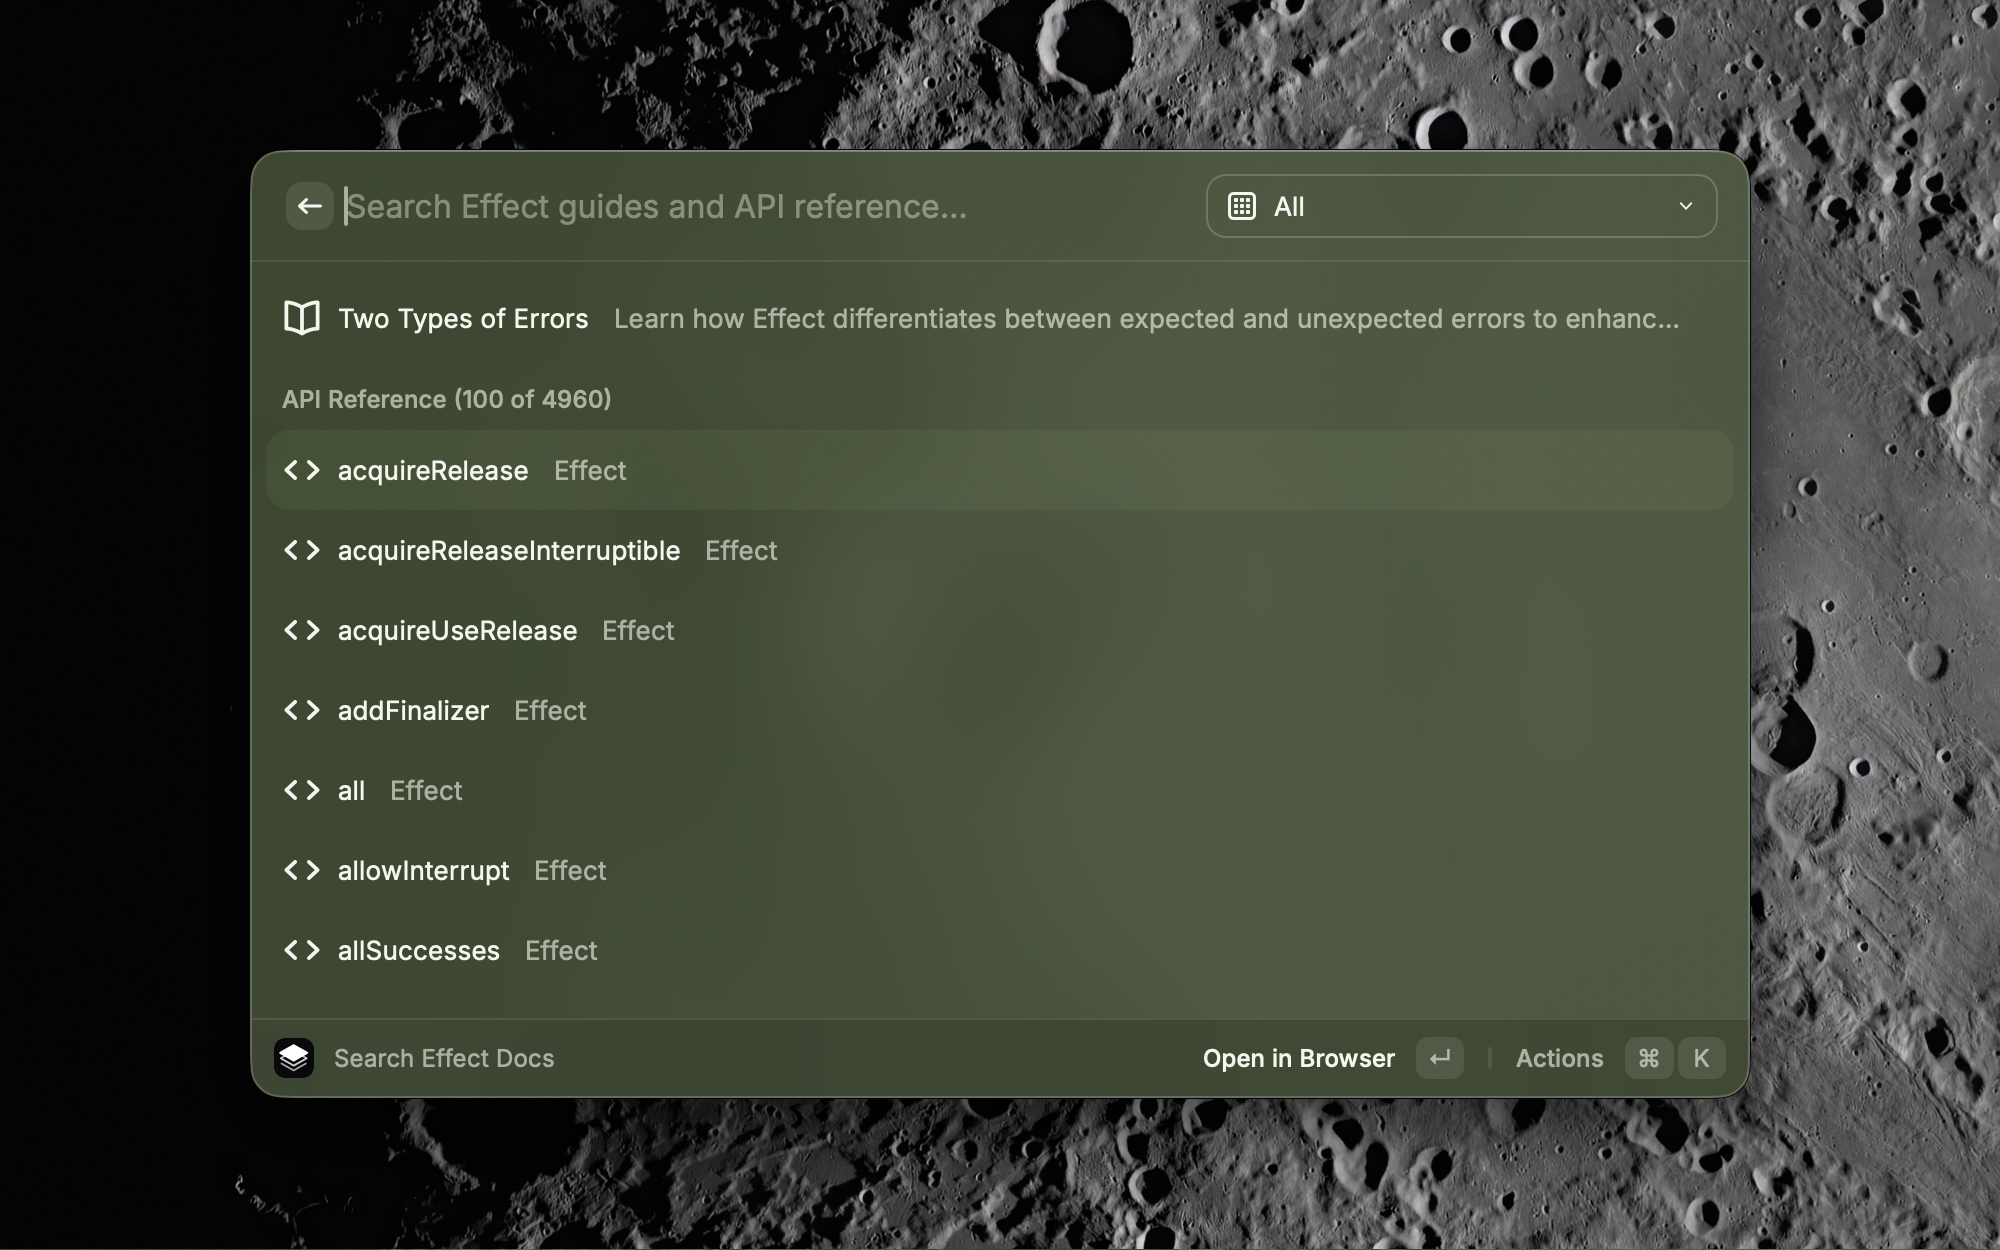
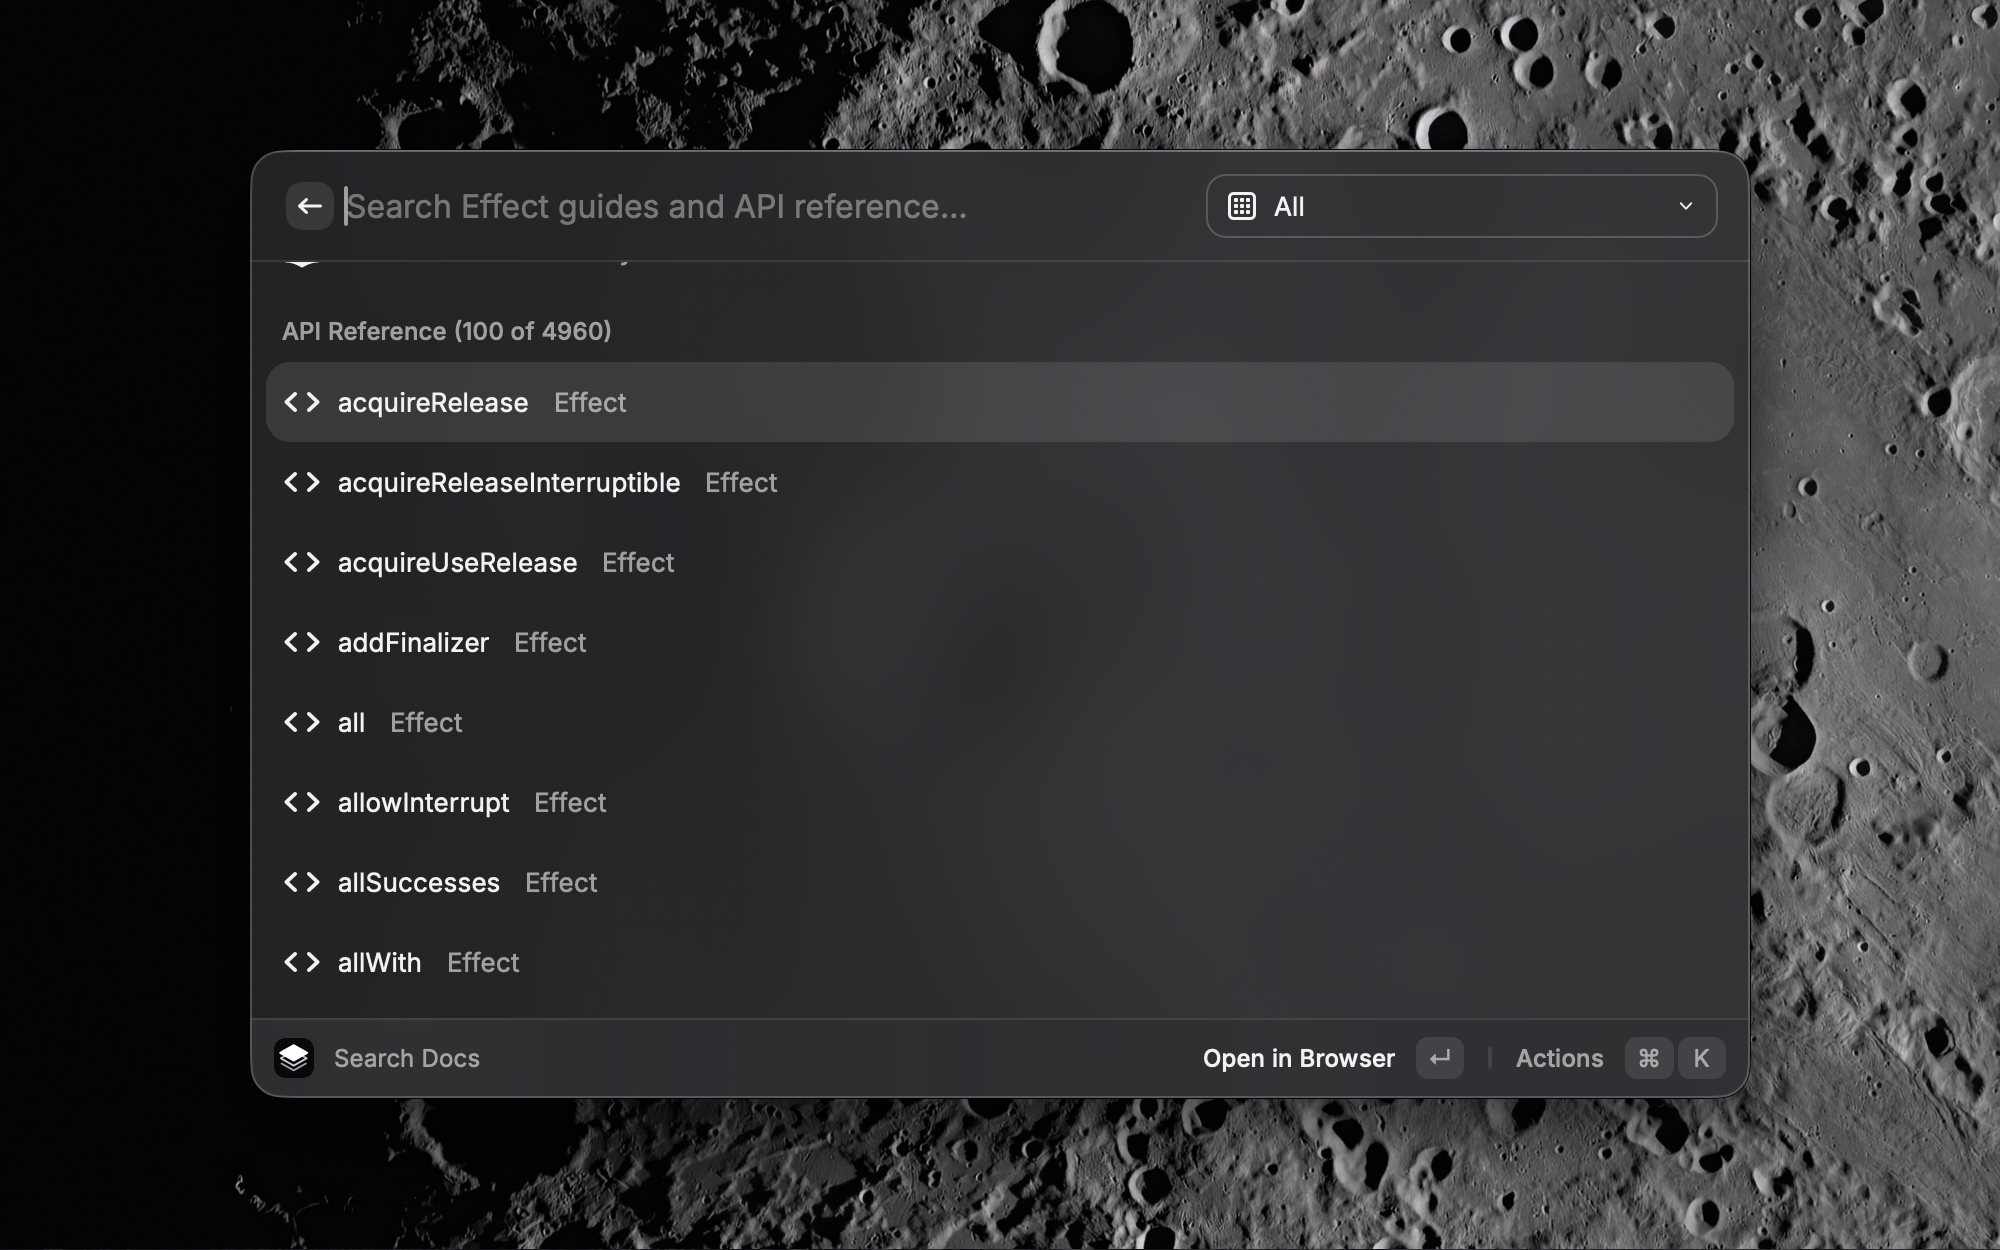
Update effect-docs extension (#28006)
* Update effect-docs extension

- Merge branch \'contributions/merge-1778991903929\'
- Pull contributions
- Update the intitial release to not use the template
- Resolved changes from Raycast
- Pull contributions
- Merge pull request #1 from rvaccone/fix/replace-llms-txt-with-docs-sidebar
- Address CodeRabbit review
- Replace removed llms.txt source with docs sidebar scrape

* Update the screenshots to reflect the new guide

* Fixed accidentally adding the wrong screenshots

* Harden sidebar parser against attribute order and nested nav tags

* Update CHANGELOG.md and optimise images

---------

diff --git a/extensions/effect-docs/src/utils/parse-guide.ts b/extensions/effect-docs/src/utils/parse-guide.ts
@@ -1,27 +1,100 @@
 import { type DocItem } from "../types";
 
-export function parseLlmsTxt(content: string): DocItem[] {
+const BASE_URL = "https://effect.website";
+const DOCS_PATH_RE = /^\/docs\/.+/;
+
+const SIDEBAR_OPEN_RE = /<nav[^>]*\baria-label="Main"[^>]*>/;
+const NAV_TAG_RE = /<(\/?)nav\b[^>]*>/g;
+
+const SECTION_OR_LINK_RE = new RegExp(
+	[
+		String.raw`<span class="[^"]*\blarge\b[^"]*">([^<]+)<\/span>`,
+		String.raw`<a\s([^>]+?)>\s*<span[^>]*>([^<]+)<\/span>\s*<\/a>`,
+	].join("|"),
+	"g",
+);
+
+const ATTR_RE = /([a-zA-Z][\w:-]*)="([^"]*)"/g;
+
+export function parseDocsSidebar(html: string): DocItem[] {
+	const sidebar = extractSidebar(html);
+	if (sidebar === undefined) throw new Error("Could not locate the docs sidebar in the fetched HTML");
+
 	const items: DocItem[] = [];
-	const lines = content.split("\n");
-	let currentSection: string | undefined;
+	const seen = new Set<string>();
+	let section: string | undefined;
 
-	for (const line of lines) {
-		const trimmed = line.trim();
+	for (const match of sidebar.matchAll(SECTION_OR_LINK_RE)) {
+		const [, sectionLabel, anchorAttrs, title] = match;
 
-		if (trimmed.startsWith("## ")) {
-			currentSection = trimmed.replace(/^## /, "");
+		if (sectionLabel) {
+			section = decodeEntities(sectionLabel.trim());
 			continue;
 		}
 
-		const match = trimmed.match(/^-\s+\[(.+?)\]\((.+?)\):\s*(.*)$/);
-		if (match)
-			items.push({
-				title: match[1],
-				url: match[2],
-				description: match[3],
-				section: currentSection,
-			});
+		if (!anchorAttrs) continue;
+
+		const attrs = parseAttributes(anchorAttrs);
+		const href = attrs.href;
+		if (!href || !DOCS_PATH_RE.test(href) || seen.has(href)) continue;
+		seen.add(href);
+
+		const isTopLevelLink = /\blarge\b/.test(attrs.class ?? "");
+
+		items.push({
+			title: decodeEntities(title.trim()),
+			url: `${BASE_URL}${href}`,
+			section: isTopLevelLink ? undefined : section,
+		});
+	}
+
+	if (items.length === 0) {
+		throw new Error("Located the docs sidebar but extracted no guide entries");
 	}
 
 	return items;
+}
+
+function extractSidebar(html: string): string | undefined {
+	const open = SIDEBAR_OPEN_RE.exec(html);
+	if (!open) return undefined;
+
+	const contentStart = open.index + open[0].length;
+	NAV_TAG_RE.lastIndex = contentStart;
+
+	let depth = 1;
+	let tag: RegExpExecArray | null;
+	while ((tag = NAV_TAG_RE.exec(html)) !== null) {
+		depth += tag[1] === "/" ? -1 : 1;
+		if (depth === 0) return html.slice(contentStart, tag.index);
+	}
+
+	return undefined;
+}
+
+function parseAttributes(opening: string): Record<string, string> {
+	const attrs: Record<string, string> = {};
+	for (const match of opening.matchAll(ATTR_RE)) {
+		attrs[match[1]] = match[2];
+	}
+	return attrs;
+}
+
+const NAMED_ENTITIES: Record<string, string> = {
+	amp: "&",
+	lt: "<",
+	gt: ">",
+	quot: '"',
+	apos: "'",
+	nbsp: " ",
+};
+
+function decodeEntities(value: string): string {
+	return value.replace(/&(#x[0-9a-fA-F]+|#\d+|[a-zA-Z]+);/g, (full, body: string) => {
+		if (body[0] === "#") {
+			const codePoint = body[1] === "x" ? parseInt(body.slice(2), 16) : parseInt(body.slice(1), 10);
+			return Number.isFinite(codePoint) ? String.fromCodePoint(codePoint) : full;
+		}
+		return NAMED_ENTITIES[body] ?? full;
+	});
 }

diff --git a/extensions/effect-docs/src/utils/fetch-with-cache.ts b/extensions/effect-docs/src/utils/fetch-with-cache.ts
@@ -1,34 +1,57 @@
 import { LocalStorage } from "@raycast/api";
 
-type CachedText = {
-	data: string;
+export const ONE_HOUR_MS = 3600000;
+
+type CacheEntry<T> = {
+	data: T;
 	timestamp: number;
 };
 
-export async function fetchTextWithCache(url: string, cacheKey: string, cacheTtl: number): Promise<string> {
-	const cachedJson = await LocalStorage.getItem<string>(cacheKey);
-	if (cachedJson) {
-		try {
-			const cached = JSON.parse(cachedJson) as CachedText;
-			if (Date.now() - cached.timestamp < cacheTtl) return cached.data;
+export async function fetchWithCache<T>(
+	url: string,
+	cacheKey: string,
+	cacheTtl: number,
+	parse: (raw: string) => T,
+): Promise<T> {
+	const cached = readCache<T>(await LocalStorage.getItem<string>(cacheKey));
+	if (cached) {
+		if (Date.now() - cached.timestamp < cacheTtl) return cached.data;
 
-			void refreshCachedText(url, cacheKey).catch(() => undefined);
-			return cached.data;
-		} catch {
-			// Ignore malformed cache entries and refresh from the source.
-		}
+		void refresh(url, cacheKey, parse).catch(() => undefined);
+		return cached.data;
 	}
 
-	return refreshCachedText(url, cacheKey);
+	return refresh(url, cacheKey, parse);
 }
 
-async function refreshCachedText(url: string, cacheKey: string): Promise<string> {
+function readCache<T>(raw: string | undefined): CacheEntry<T> | undefined {
+	if (!raw) return undefined;
+
+	try {
+		const parsed = JSON.parse(raw) as unknown;
+		if (
+			parsed &&
+			typeof parsed === "object" &&
+			"data" in parsed &&
+			"timestamp" in parsed &&
+			typeof (parsed as { timestamp: unknown }).timestamp === "number"
+		) {
+			return parsed as CacheEntry<T>;
+		}
+	} catch {
+		// Malformed JSON — fall through and refresh from the source.
+	}
+
+	return undefined;
+}
+
+async function refresh<T>(url: string, cacheKey: string, parse: (raw: string) => T): Promise<T> {
 	const response = await fetch(url);
 	if (!response.ok) {
 		throw new Error(`Failed to fetch ${url}: ${response.status}`);
 	}
 
-	const data = await response.text();
+	const data = parse(await response.text());
 	await LocalStorage.setItem(cacheKey, JSON.stringify({ data, timestamp: Date.now() }));
 
 	return data;

diff --git a/extensions/effect-docs/src/utils/fetch-api.ts b/extensions/effect-docs/src/utils/fetch-api.ts
@@ -1,45 +1,13 @@
-import { LocalStorage } from "@raycast/api";
 import type { ApiItem } from "../types";
+import { fetchWithCache, ONE_HOUR_MS } from "./fetch-with-cache";
 import { parseApiRef } from "./parse-api-ref";
 import { scoreSearch } from "./search";
 
 const API_REF_URL = "https://tim-smart.github.io/effect-io-ai/";
 const CACHE_KEY = "effect-api-index-v1";
-const CACHE_TTL = 3600000; // 1 hour
 
-type CachedApiItems = {
-	data: ApiItem[];
-	timestamp: number;
-};
-
-export async function fetchApiIndex(): Promise<ApiItem[]> {
-	const cachedJson = await LocalStorage.getItem<string>(CACHE_KEY);
-	if (cachedJson) {
-		try {
-			const cached = JSON.parse(cachedJson) as CachedApiItems;
-			if (Date.now() - cached.timestamp < CACHE_TTL) return cached.data;
-
-			void refreshApiIndex().catch(() => undefined);
-			return cached.data;
-		} catch {
-			// Ignore malformed cache entries and refresh from the source.
-		}
-	}
-
-	return refreshApiIndex();
-}
-
-async function refreshApiIndex(): Promise<ApiItem[]> {
-	const response = await fetch(API_REF_URL);
-	if (!response.ok) {
-		throw new Error(`Failed to fetch ${API_REF_URL}: ${response.status}`);
-	}
-
-	const data = await response.text();
-	const items = sortApiItems(parseApiRef(data, API_REF_URL));
-	await LocalStorage.setItem(CACHE_KEY, JSON.stringify({ data: items, timestamp: Date.now() }));
-
-	return items;
+export function fetchApiIndex(): Promise<ApiItem[]> {
+	return fetchWithCache(API_REF_URL, CACHE_KEY, ONE_HOUR_MS, (raw) => sortApiItems(parseApiRef(raw, API_REF_URL)));
 }
 
 function sortApiItems(items: ApiItem[]): ApiItem[] {

diff --git a/extensions/effect-docs/src/search-effect.tsx b/extensions/effect-docs/src/search-effect.tsx
@@ -3,6 +3,7 @@ import { Action, ActionPanel, Icon, List } from "@raycast/api";
 import { AiDetail } from "./components/AiDetail";
 import { useApiSearch } from "./hooks/useApiSearch";
 import { useGuideSearch } from "./hooks/useGuideSearch";
+import type { DocItem } from "./types";
 import { searchApiItems } from "./utils/fetch-api";
 import { searchGuideItems } from "./utils/fetch-guides";
 
@@ -14,6 +15,14 @@ const PAGINATION_PLACEHOLDERS = 20;
 
 function getModuleImportStatement(module: string): string {
 	return `import * as ${module} from "effect/${module}"`;
+}
+
+function getGuideSubtitle(item: DocItem): string | undefined {
+	if (item.description) return item.description;
+	if (item.section) return item.section;
+
+	const pathname = new URL(item.url).pathname.replace(/^\/|\/$/g, "");
+	return pathname || undefined;
 }
 
 export default function Command() {
@@ -92,7 +101,7 @@ export default function Command() {
 								<List.Item
 									key={item.url}
 									title={item.title}
-									subtitle={item.description}
+									subtitle={getGuideSubtitle(item)}
 									keywords={item.section ? [item.section] : []}
 									icon={Icon.Book}
 									actions={

diff --git a/extensions/effect-docs/src/utils/fetch-guides.ts b/extensions/effect-docs/src/utils/fetch-guides.ts
@@ -1,15 +1,13 @@
 import type { DocItem } from "../types";
-import { fetchTextWithCache } from "./fetch-with-cache";
-import { parseLlmsTxt } from "./parse-guide";
+import { fetchWithCache, ONE_HOUR_MS } from "./fetch-with-cache";
+import { parseDocsSidebar } from "./parse-guide";
 import { scoreSearch } from "./search";
 
-const LLMS_TXT_URL = "https://effect.website/llms.txt";
-const CACHE_KEY = "effect-llms-v2";
-const CACHE_TTL = 3600000; // 1 hour
+const DOCS_INDEX_URL = "https://effect.website/docs/getting-started/introduction/";
+const CACHE_KEY = "effect-docs-sidebar-v2";
 
-export async function fetchGuideIndex(): Promise<DocItem[]> {
-	const data = await fetchTextWithCache(LLMS_TXT_URL, CACHE_KEY, CACHE_TTL);
-	return parseLlmsTxt(data);
+export function fetchGuideIndex(): Promise<DocItem[]> {
+	return fetchWithCache(DOCS_INDEX_URL, CACHE_KEY, ONE_HOUR_MS, parseDocsSidebar);
 }
 
 export function searchGuideItems(items: DocItem[], query: string): DocItem[] {

diff --git a/extensions/effect-docs/src/hooks/useApiSearch.ts b/extensions/effect-docs/src/hooks/useApiSearch.ts
@@ -11,5 +11,5 @@ export function useApiSearch(): {
 		failureToastOptions: { title: "Failed to load API reference" },
 	});
 
-	return { items: data ?? [], isLoading, error };
+	return { items: Array.isArray(data) ? data : [], isLoading, error };
 }

diff --git a/extensions/effect-docs/src/hooks/useGuideSearch.ts b/extensions/effect-docs/src/hooks/useGuideSearch.ts
@@ -11,5 +11,5 @@ export function useGuideSearch(): {
 		failureToastOptions: { title: "Failed to load guides" },
 	});
 
-	return { items: data ?? [], isLoading, error };
+	return { items: Array.isArray(data) ? data : [], isLoading, error };
 }

diff --git a/extensions/effect-docs/src/tools/search-guides.ts b/extensions/effect-docs/src/tools/search-guides.ts
@@ -19,7 +19,6 @@ export default async function tool(input: Input) {
 
 		return results.slice(0, 10).map((item) => ({
 			title: item.title,
-			description: item.description,
 			url: item.url,
 			section: item.section,
 		}));

diff --git a/extensions/effect-docs/src/types.ts b/extensions/effect-docs/src/types.ts
@@ -1,6 +1,6 @@
 export type DocItem = {
 	title: string;
-	description: string;
+	description?: string;
 	url: string;
 	section?: string;
 };

diff --git a/extensions/effect-docs/CHANGELOG.md b/extensions/effect-docs/CHANGELOG.md
@@ -1,5 +1,11 @@
 # Effect Docs Changelog
 
+## [Replace Removed llms.txt Source] - 2026-05-17
+
+- Switched guide source from `llms.txt` (removed by Effect) to the Starlight docs sidebar HTML
+- Added section/path subtitle to guide results so duplicate-named entries like Runtime are disambiguated
+- Generalized the cache helper and added a defensive guard against stale cache shapes
+
 ## [Initial Release] - 2026-05-16
 
 - Initial release
